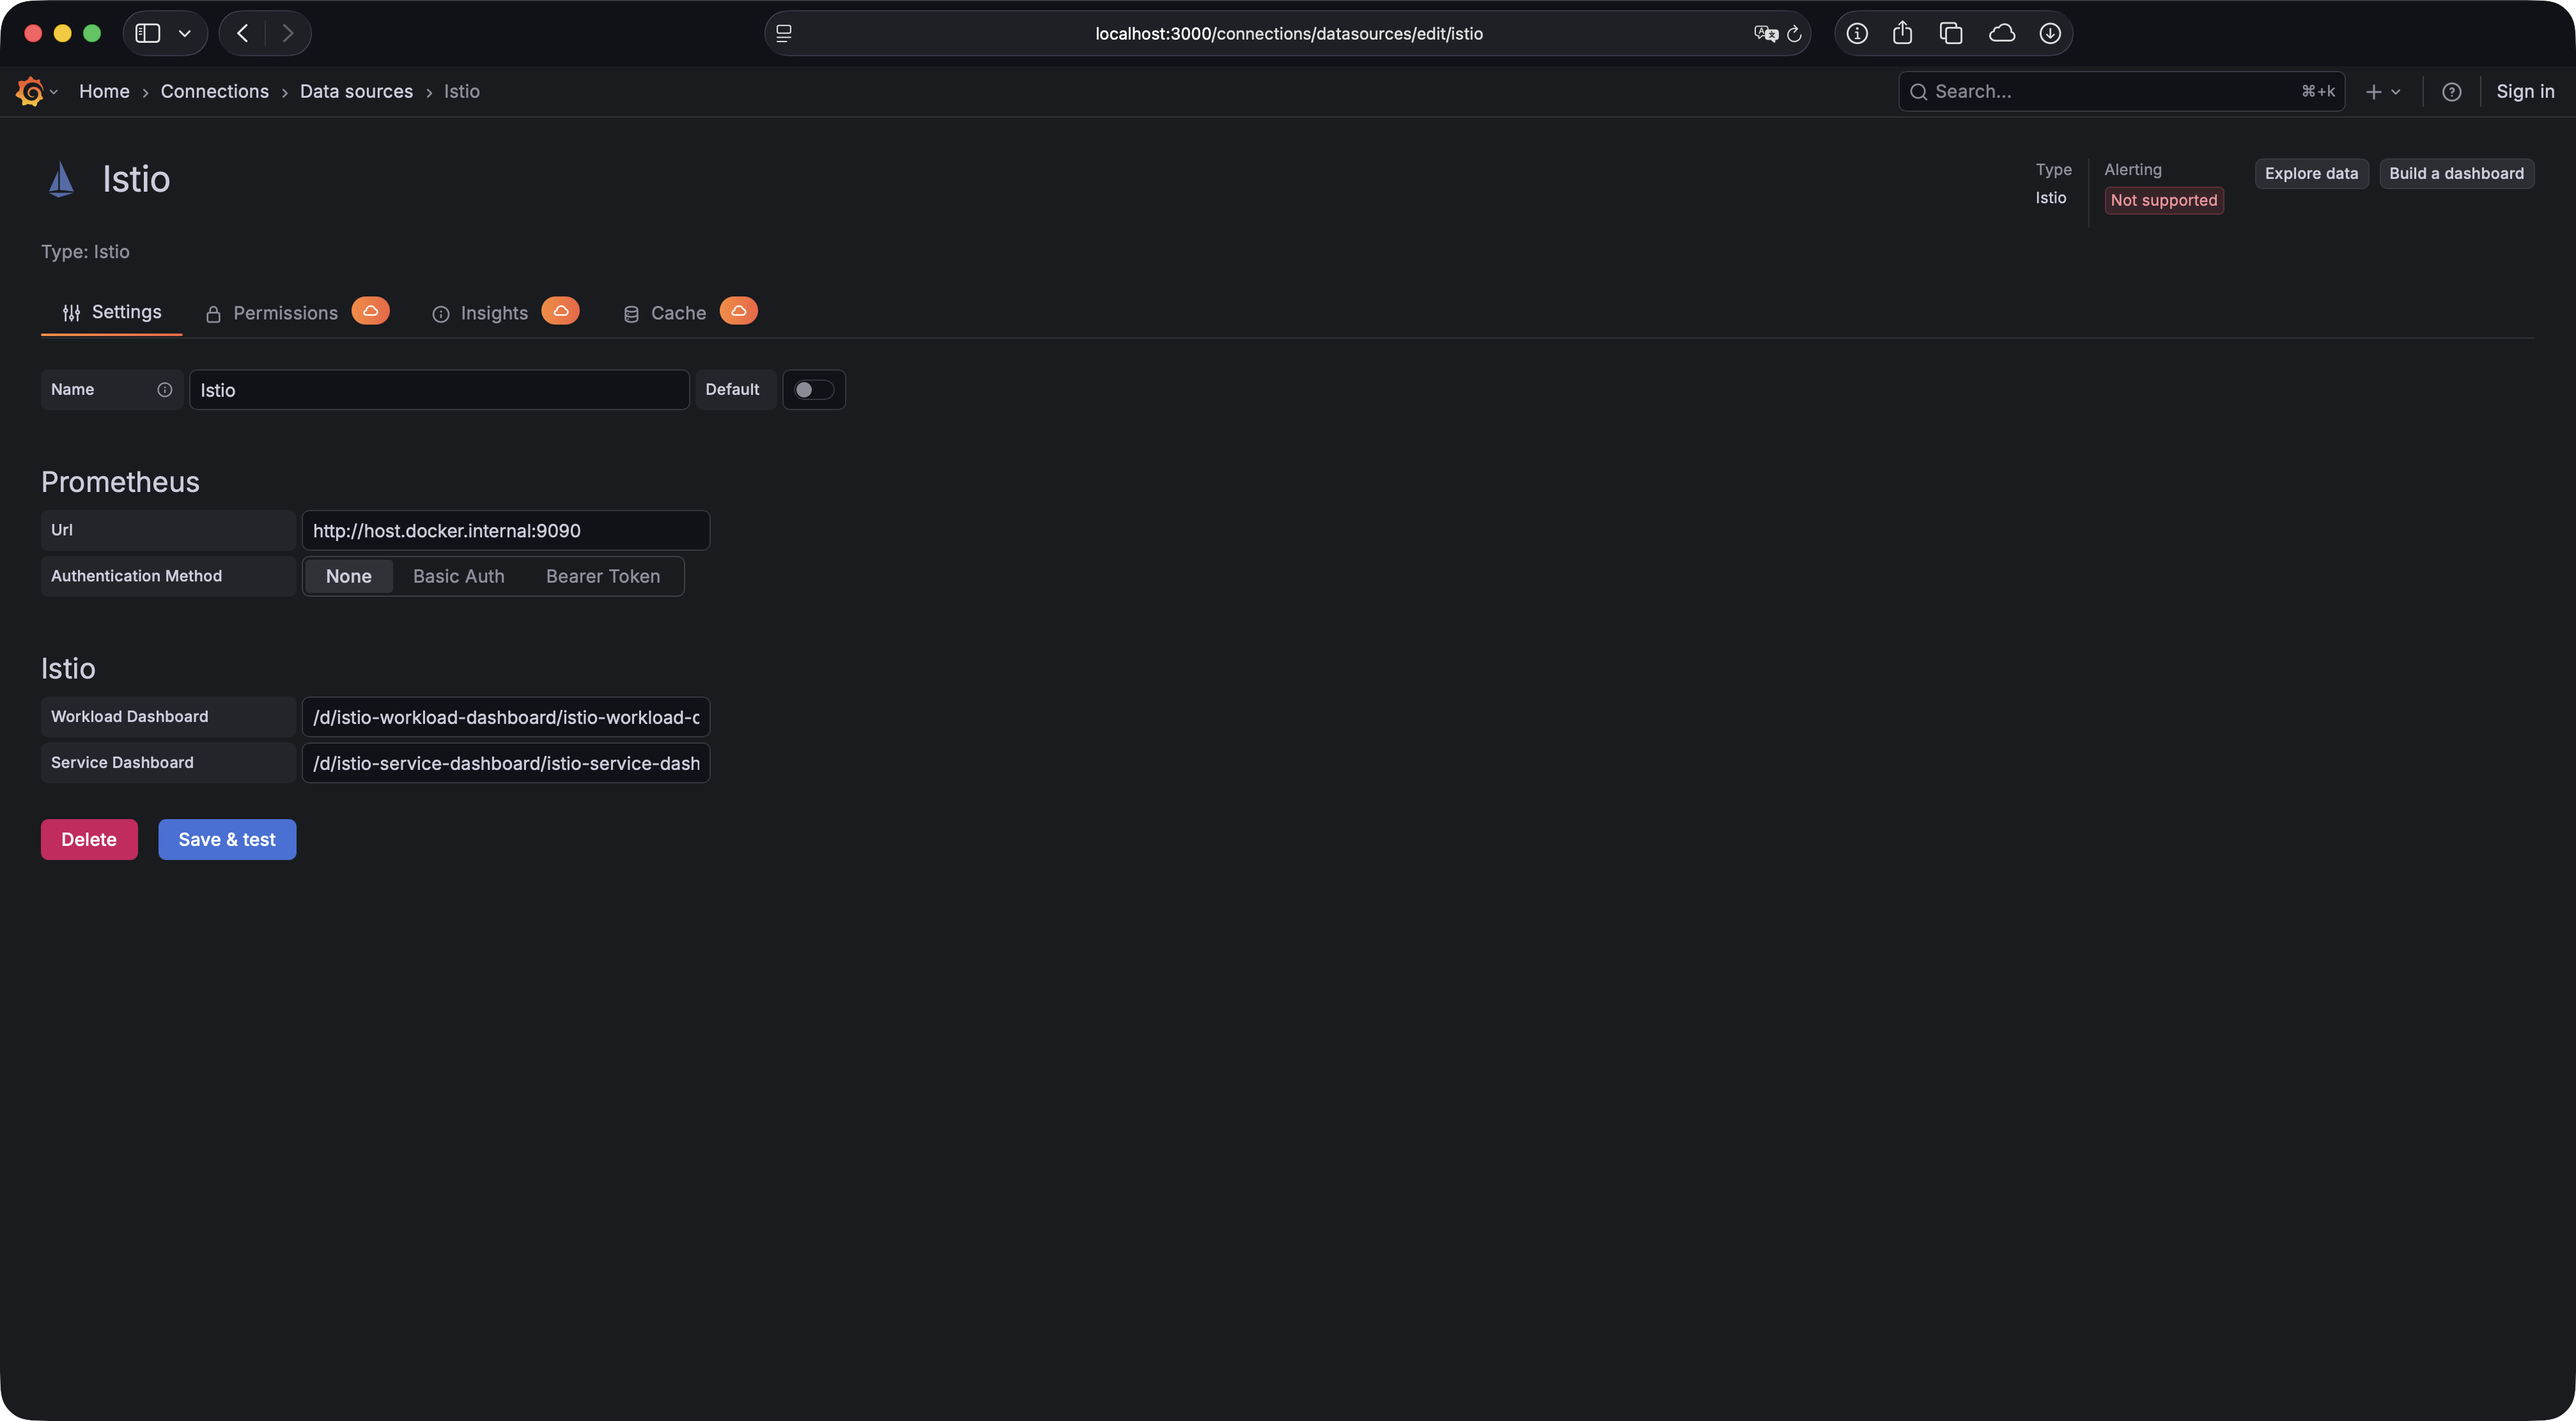
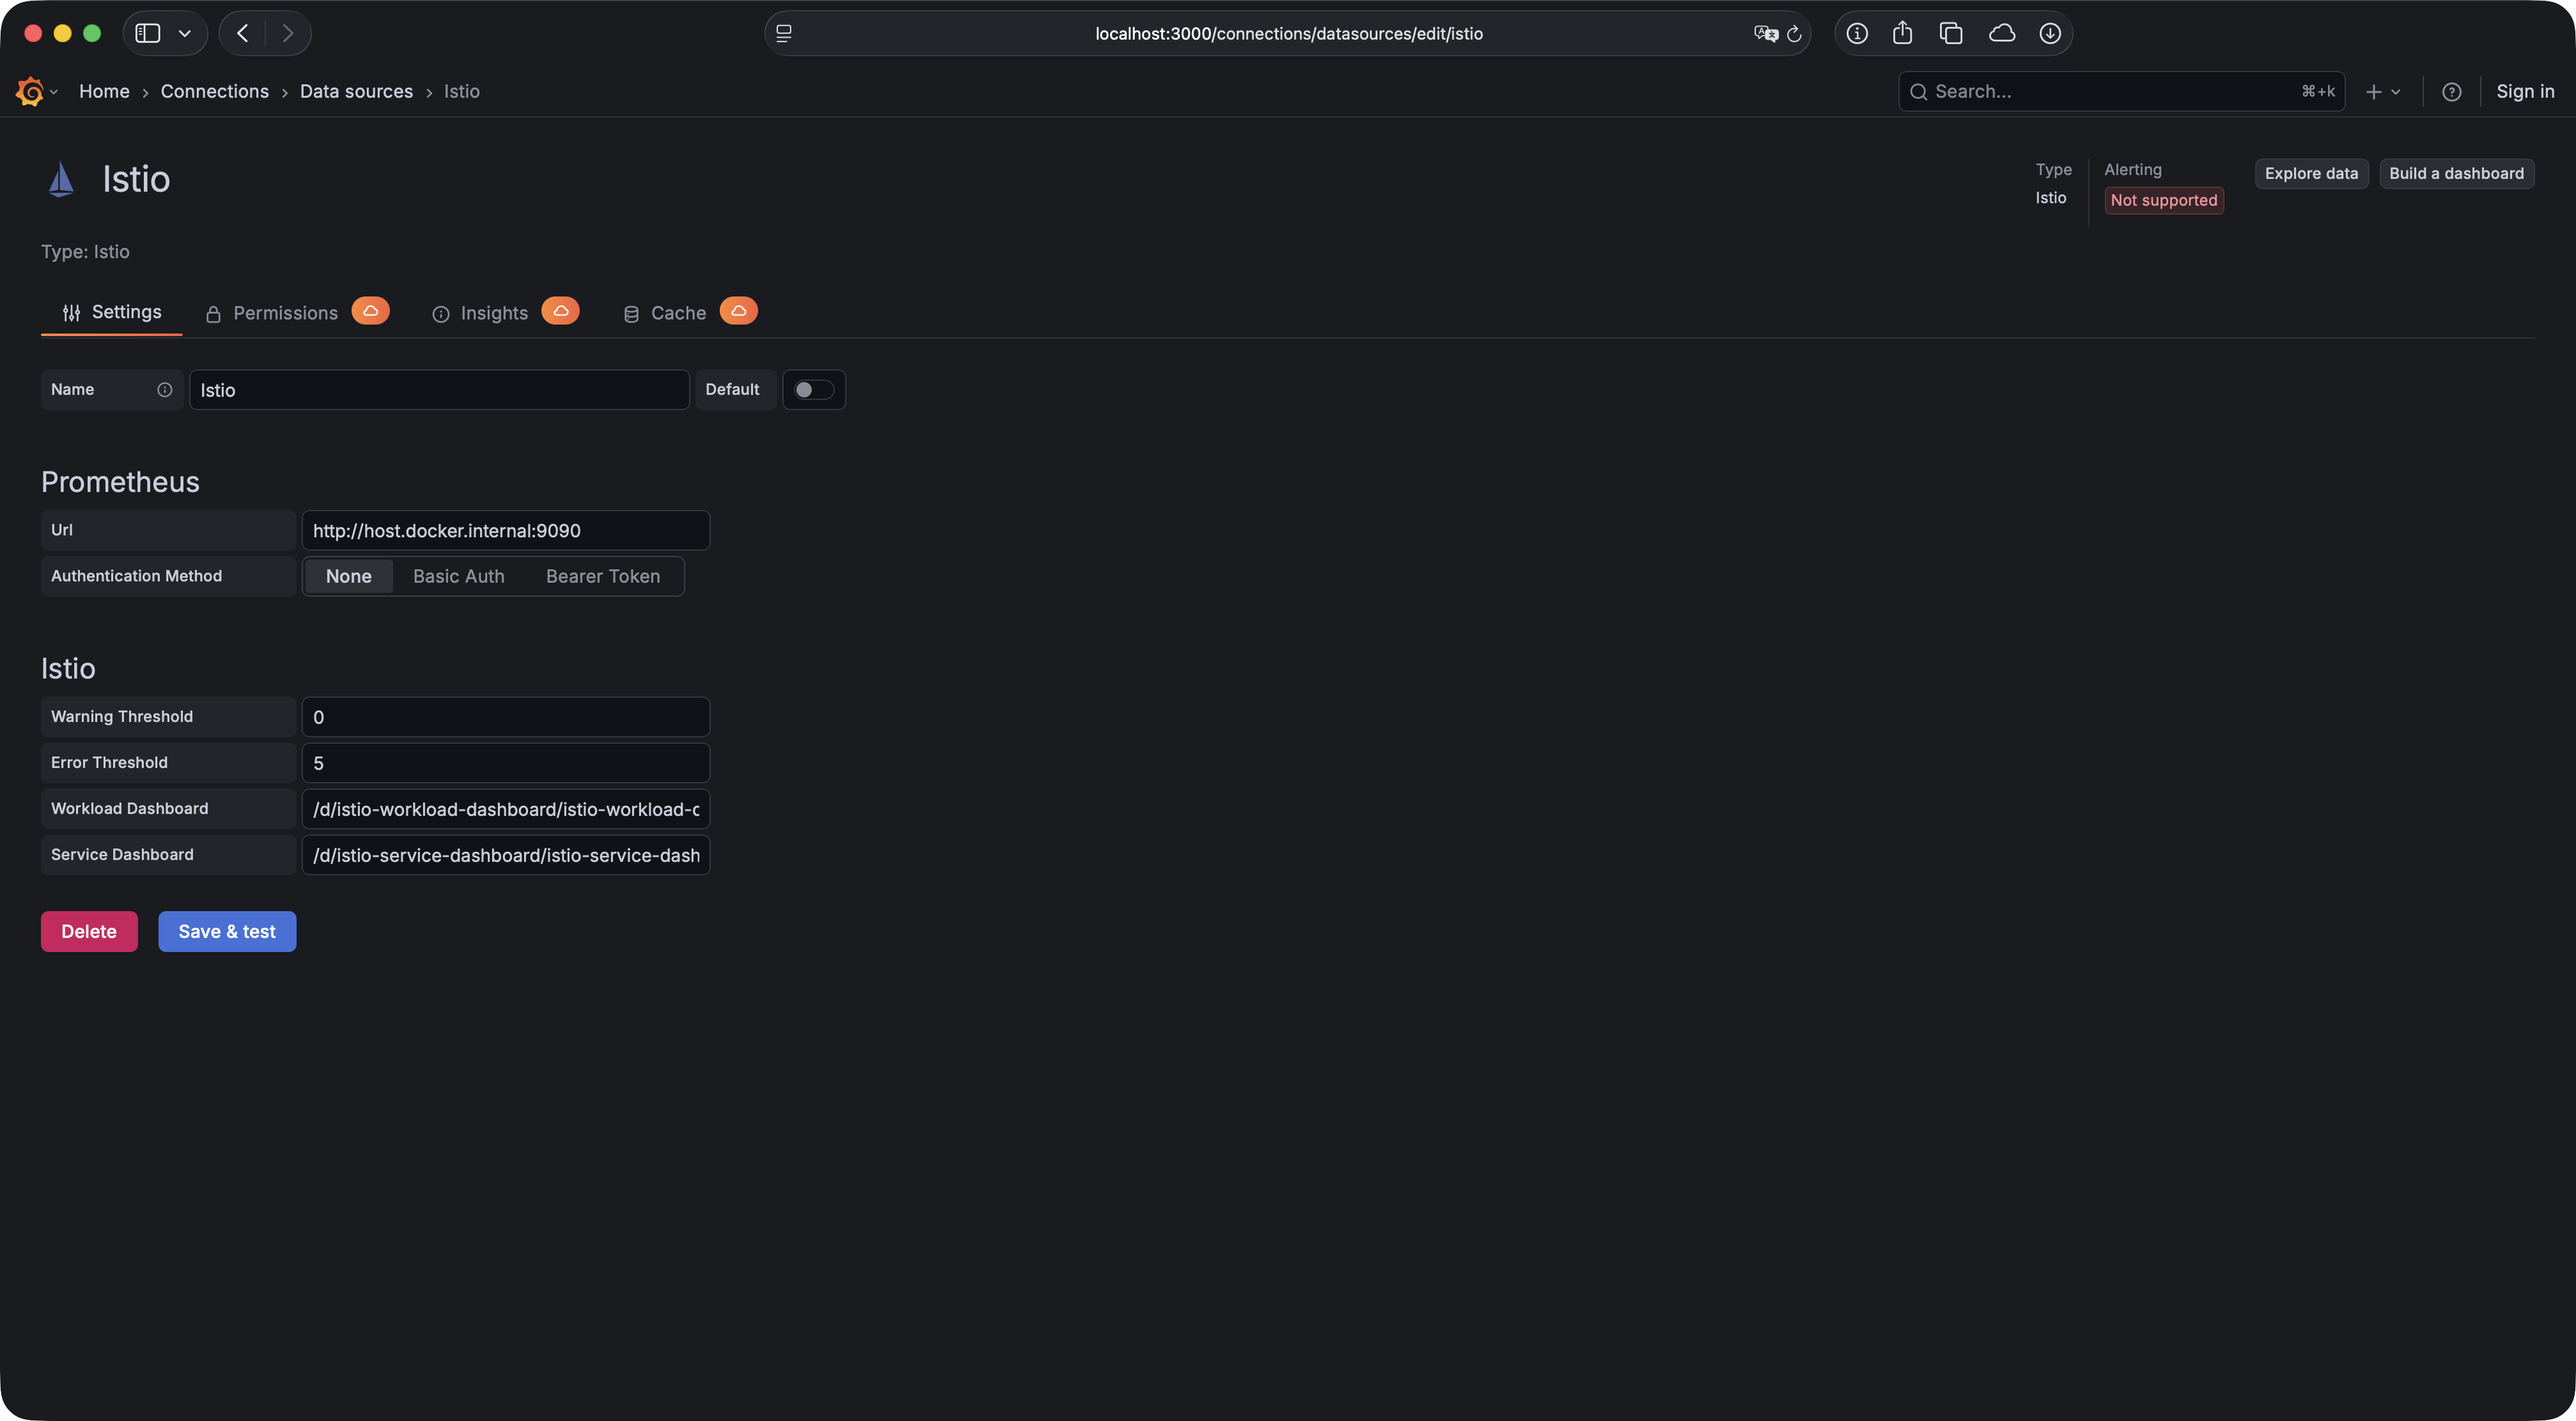
Make Thresholds Configurable (#3)
The thresholds to mark a edge / node as warning (`yellow`) or error
(`red`) can now be configured. The default value for warning is 0% and
for error is 5%.

Changed region(s): [[0.0, 0.4964, 0.2792, 0.6826]]

diff --git a/src/components/ConfigEditor.tsx b/src/components/ConfigEditor.tsx
@@ -153,6 +153,37 @@ export function ConfigEditor({ options, onOptionsChange }: Props) {
 
       <div className={styles.container}>
         <h3>Istio</h3>
+        <InlineField label="Warning Threshold" labelWidth={25} interactive>
+          <Input
+            onChange={(event: ChangeEvent<HTMLInputElement>) => {
+              onOptionsChange({
+                ...options,
+                jsonData: {
+                  ...jsonData,
+                  istioWarningThreshold: parseFloat(event.target.value),
+                },
+              });
+            }}
+            value={jsonData.istioWarningThreshold}
+            width={40}
+          />
+        </InlineField>
+        <InlineField label="Error Threshold" labelWidth={25} interactive>
+          <Input
+            onChange={(event: ChangeEvent<HTMLInputElement>) => {
+              onOptionsChange({
+                ...options,
+                jsonData: {
+                  ...jsonData,
+                  istioErrorThreshold: parseFloat(event.target.value),
+                },
+              });
+            }}
+            value={jsonData.istioErrorThreshold}
+            width={40}
+          />
+        </InlineField>
+
         <InlineField label="Workload Dashboard" labelWidth={25} interactive>
           <Input
             onChange={(event: ChangeEvent<HTMLInputElement>) => {

diff --git a/src/types.ts b/src/types.ts
@@ -33,6 +33,8 @@ export interface Options extends DataSourceJsonData {
   prometheusUrl?: string;
   prometheusAuthMethod?: OptionsPrometheusAuthMethod;
   prometheusUsername?: string;
+  istioWarningThreshold?: number;
+  istioErrorThreshold?: number;
   istioWorkloadDashboard?: string;
   istioServiceDashboard?: string;
 }

diff --git a/pkg/plugin/queryhandlers.go b/pkg/plugin/queryhandlers.go
@@ -269,7 +269,7 @@ func (d *Datasource) handleGraph(ctx context.Context, query concurrent.Query) ba
 	edgeDetailsTCPReceivedBytes := edgeFields.Add("detail__tcpreceivedbytes", nil, []string{}, &data.FieldConfig{DisplayName: "TCP Received"})
 
 	for _, edge := range edges {
-		edgeField := getEdgeField(edge, float64(interval))
+		edgeField := d.getEdgeField(edge, float64(interval))
 
 		edgeIds.Append(edgeField.ID)
 		edgeSources.Append(edgeField.Source)
@@ -316,7 +316,7 @@ func (d *Datasource) handleGraph(ctx context.Context, query concurrent.Query) ba
 	})
 
 	for _, node := range nodes {
-		nodeField := getEdgeField(node, float64(interval))
+		nodeField := d.getEdgeField(node, float64(interval))
 
 		nodeIds.Append(nodeField.ID)
 		nodeTitles.Append(node.TargetType)
@@ -668,7 +668,7 @@ func (d *Datasource) edgesToNodes(edges []models.Edge) []models.Edge {
 	return nodesSlice
 }
 
-func getEdgeField(edge models.Edge, interval float64) models.EdgeField {
+func (d *Datasource) getEdgeField(edge models.Edge, interval float64) models.EdgeField {
 	edgeField := models.EdgeField{}
 	edgeField.ID = edge.ID
 	edgeField.Source = edge.Source
@@ -723,9 +723,9 @@ func getEdgeField(edge models.Edge, interval float64) models.EdgeField {
 			edgeField.MainStat = append(edgeField.MainStat, edgeField.DetailsHTTPErr)
 		}
 
-		if httpErrRate >= 5 {
+		if httpErrRate >= d.istioErrorThreshold {
 			edgeField.Color = "#f2495c"
-		} else if httpErrRate > 0 {
+		} else if httpErrRate > d.istioWarningThreshold {
 			edgeField.Color = "#fade2a"
 		} else {
 			edgeField.Color = "#73bf69"
@@ -743,9 +743,9 @@ func getEdgeField(edge models.Edge, interval float64) models.EdgeField {
 			edgeField.MainStat = append(edgeField.MainStat, edgeField.DetailsGRPCErr)
 		}
 
-		if grpcErrRate >= 5 {
+		if grpcErrRate >= d.istioErrorThreshold {
 			edgeField.Color = "#f2495c"
-		} else if grpcErrRate > 0 {
+		} else if grpcErrRate > d.istioWarningThreshold {
 			edgeField.Color = "#fade2a"
 		} else {
 			edgeField.Color = "#73bf69"

diff --git a/pkg/plugin/datasource.go b/pkg/plugin/datasource.go
@@ -42,8 +42,20 @@ func NewDatasource(_ context.Context, pCtx backend.DataSourceInstanceSettings) (
 		return nil, err
 	}
 
+	istioWarningThreshold := settings.IstioWarningThreshold
+	if istioWarningThreshold == 0 {
+		istioWarningThreshold = 0
+	}
+
+	istioErrorThreshold := settings.IstioErrorThreshold
+	if istioErrorThreshold == 0 {
+		istioErrorThreshold = 5
+	}
+
 	ds := &Datasource{
 		prometheusClient:       prometheusClient,
+		istioWarningThreshold:  istioWarningThreshold,
+		istioErrorThreshold:    istioErrorThreshold,
 		istioWorkloadDashboard: settings.IstioWorkloadDashboard,
 		istioServiceDashboard:  settings.IstioServiceDashboard,
 		logger:                 logger,
@@ -63,6 +75,8 @@ func NewDatasource(_ context.Context, pCtx backend.DataSourceInstanceSettings) (
 type Datasource struct {
 	queryHandler           backend.QueryDataHandler
 	prometheusClient       prometheus.Client
+	istioWarningThreshold  float64
+	istioErrorThreshold    float64
 	istioWorkloadDashboard string
 	istioServiceDashboard  string
 	logger                 log.Logger

diff --git a/pkg/models/settings.go b/pkg/models/settings.go
@@ -17,6 +17,8 @@ type PluginSettings struct {
 	PrometheusUrl          string                `json:"prometheusUrl"`
 	PrometheusAuthMethod   string                `json:"prometheusAuthMethod"`
 	PrometheusUsername     string                `json:"prometheusUsername"`
+	IstioWarningThreshold  float64               `json:"istioWarningThreshold"`
+	IstioErrorThreshold    float64               `json:"istioErrorThreshold"`
 	IstioWorkloadDashboard string                `json:"istioWorkloadDashboard"`
 	IstioServiceDashboard  string                `json:"istioServiceDashboard"`
 	Secrets                *SecretPluginSettings `json:"-"`

diff --git a/README.md b/README.md
@@ -49,6 +49,10 @@ export GF_PLUGINS_PREINSTALL_SYNC=ricoberger-istio-datasource@0.1.0@https://gith
 - **Prometheus Authentication Method:** The authentication method which should
   be used for the Prometheus instance. The plugin supports basic authentication
   and bearer token authentication.
+- **Istio Warning Threshold:** The threshold in percent which defines when a
+  edge or node should be marked `yellow`. The default value is `0`.
+- **Istio Error Threshold:** The threshold in percent which defines when a edge
+  or node should be marked `red`. The default value is `5`.
 - **Istio Workload Dashboard:** The link to the
   [Istio workload dashboard](https://grafana.com/grafana/dashboards/7630-istio-workload-dashboard/),
   e.g. `/d/istio-workload-dashboard/istio-workload-dashboard`.
